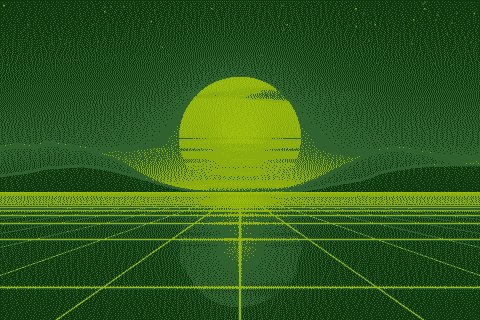
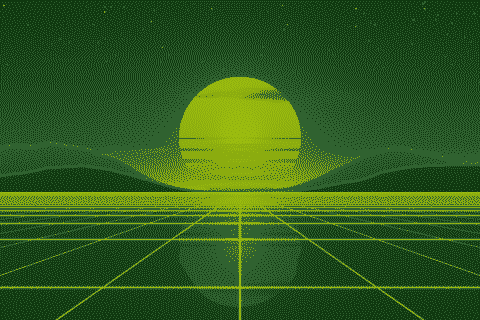
fix(engine): Sierra Lite diffuses below-left and below, as published
Sierra's Filter Lite sends 2/4 of the error to the right and 1/4 each to
the pixels below-left and below. The kernel sent the last two quarters
below and below-right. Regenerated the Sierra Lite specimen and hero
variants.

diff --git a/src/lib/editor/matrices.ts b/src/lib/editor/matrices.ts
@@ -80,10 +80,11 @@ export const ERROR_KERNELS = {
     [1, 1, 2],
     [2, 1, 1],
   ]),
+  // Sierra's "Filter Lite": 2 to the right, 1 below-left and 1 below.
   sierraLite: kernel(4, [
     [1, 0, 2],
+    [-1, 1, 1],
     [0, 1, 1],
-    [1, 1, 1],
   ]),
   // Atkinson intentionally diffuses only 6/8 of the error (crisper highlights).
   atkinson: kernel(8, [
